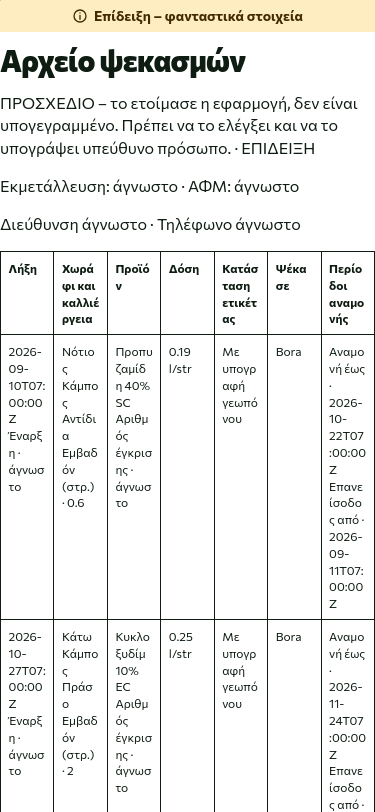
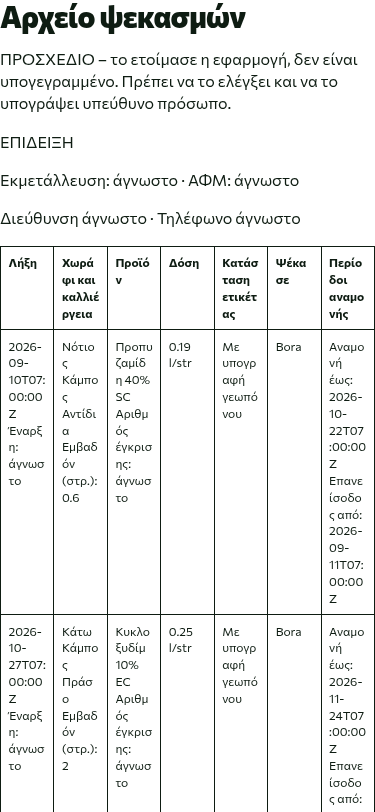
Print only the draft on landscape A4 pages

diff --git a/app/src/ui/RegisterPrint.tsx b/app/src/ui/RegisterPrint.tsx
@@ -1,6 +1,6 @@
 import { printRegisterLines } from '../export/register-pdf';
 import type { RegisterData } from '../export/register';
-import { t } from '../i18n';
+import { t, type I18nKey } from '../i18n';
 import './register-print.css';
 
 export function RegisterPrint({ data, demo, name, address, phone, vat }: {
@@ -9,9 +9,11 @@ export function RegisterPrint({ data, demo, name, address, phone, vat }: {
   const rows = printRegisterLines(data);
   const unknown = t('ui.pdf.unknown', undefined, 'el');
   const own = (value: string) => !demo && value.trim() ? value : unknown;
+  const fact = (key: I18nKey, value: string) => t('labeluse.line', { name: t(key, undefined, 'el'), value }, 'el');
   return <section class="register-print" data-testid="register-print-page" lang="el">
     <h1>{t('register.title', undefined, 'el')}</h1>
-    <p>{t('register.draft', undefined, 'el')}{demo && <>{' · '}{t('badge.demo', undefined, 'el')}</>}</p>
+    <p>{t('register.draft', undefined, 'el')}</p>
+    {demo && <p>{t('badge.demo', undefined, 'el')}</p>}
     <p>{t('register.holder', { name: own(name), vat: own(vat) }, 'el')}</p>
     <p>{t('ui.pdf.contact', { address: own(address), phone: own(phone) }, 'el')}</p>
     {!rows.length ? <p>{t('register.empty', undefined, 'el')}</p> : <table>
@@ -25,16 +27,16 @@ export function RegisterPrint({ data, demo, name, address, phone, vat }: {
         <th scope="col">{t('ui.pdf.wait', undefined, 'el')}</th>
       </tr></thead>
       <tbody>{rows.map((row, index) => <tr key={`${row.record}-${index}`}>
-        <td>{row.when}<br />{t('register.col.start', undefined, 'el')}{' · '}{row.start}</td>
+        <td>{row.when}<br />{fact('register.col.start', row.start)}</td>
         <td>{row.locations.map((location, i) => <div key={i}>
           {location.parcel}<br />{location.crop}<br />
-          {t('register.col.area', undefined, 'el')}{' · '}{location.area}
+          {fact('register.col.area', location.area)}
         </div>)}</td>
-        <td>{row.product}<br />{t('register.col.reg_no', undefined, 'el')}{' · '}{row.reg_no}</td>
+        <td>{row.product}<br />{fact('register.col.reg_no', row.reg_no)}</td>
         <td><span data-testid="register-print-dose">{row.dose}</span> {row.unit}</td>
         <td>{row.label}</td><td>{row.applicator}</td>
-        <td>{t('register.col.phi_until', undefined, 'el')}{' · '}{row.phi_until}<br />
-          {t('register.col.rei_until', undefined, 'el')}{' · '}{row.rei_until}</td>
+        <td>{fact('register.col.phi_until', row.phi_until)}<br />
+          {fact('register.col.rei_until', row.rei_until)}</td>
       </tr>)}</tbody>
     </table>}
   </section>;

diff --git a/app/src/ui/register-print.css b/app/src/ui/register-print.css
@@ -2,8 +2,12 @@
 
 @media print {
   @page registerDraft { size: A4 landscape; margin: 12mm; }
+  #app:has(.register-print) { page: registerDraft; display: block; min-height: 0; }
+  #app:has(.register-print) > :not(main),
+  main:has(.register-print) > :not(.register, :has(.register-print)),
   .register > :not(.register-print) { display: none !important; }
-  .register .register-print { page: registerDraft; display: block; color: var(--fg); }
+  main:has(.register-print) { max-width: none; }
+  .register .register-print { display: block; color: var(--fg); }
   .register-print table { width: 100%; border-collapse: collapse; table-layout: fixed; }
   .register-print thead { display: table-header-group; }
   .register-print tr { break-inside: avoid; }
